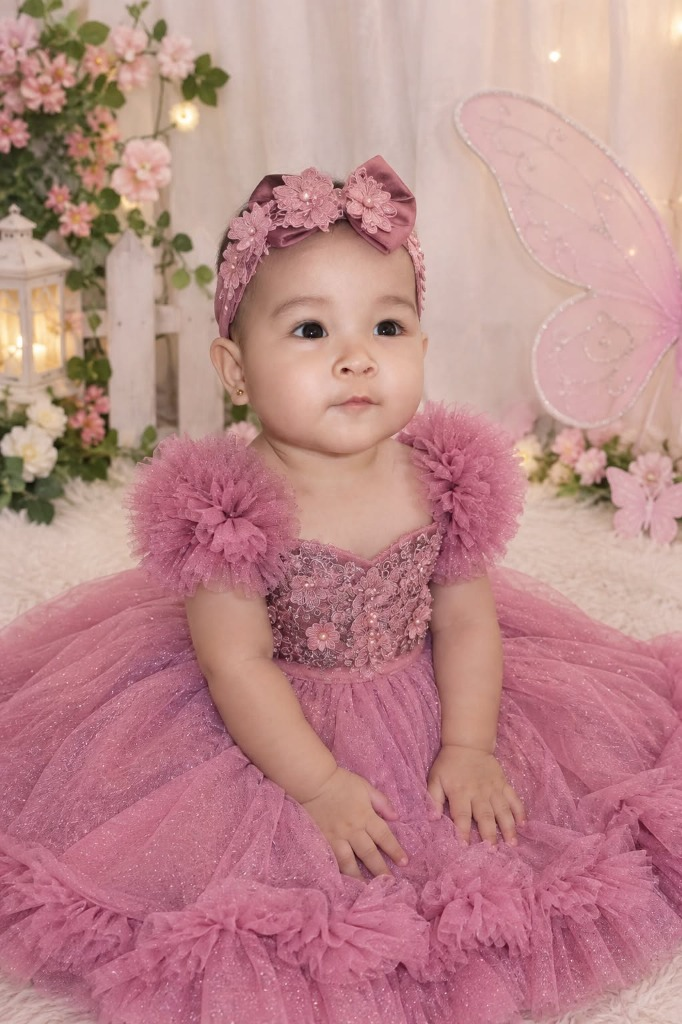
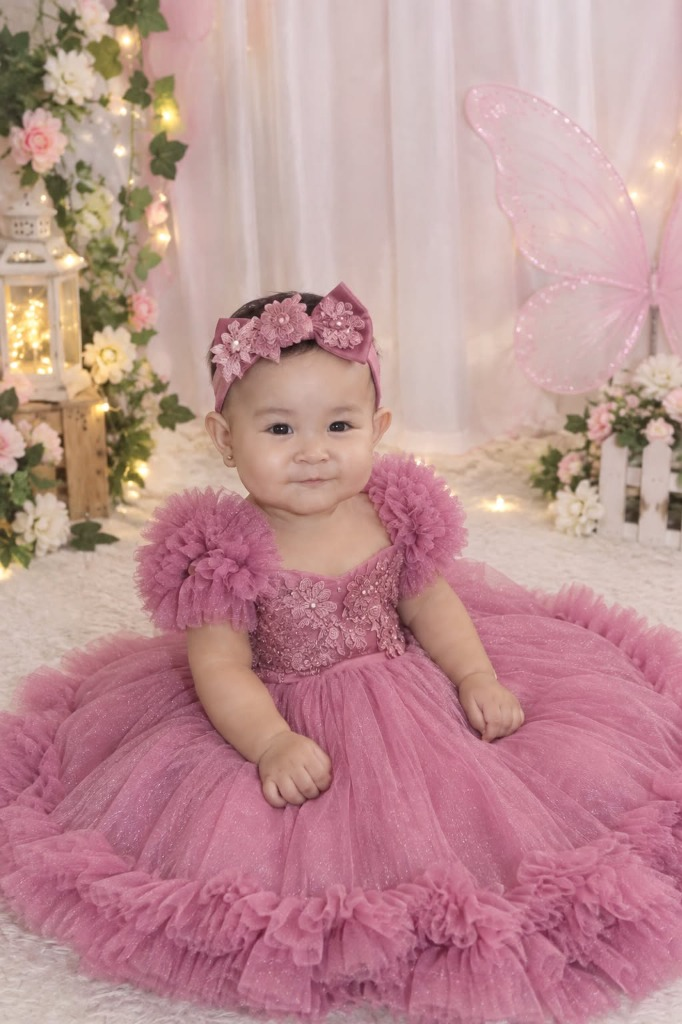
m

diff --git a/index.html b/index.html
@@ -211,17 +211,13 @@
         <p class="section-subtitle">Precious moments of Baby Arshea turning One &amp; receiving her holy blessings</p>
       </div>
 
-      <div class="gallery-grid" style="grid-template-columns: repeat(auto-fit, minmax(200px, 1fr));">
+      <div class="gallery-grid" style="grid-template-columns: repeat(2, 1fr);">
         <div class="polaroid-card">
-          <img src="assets/images/hero.jpg" alt="Baby Arshea - Little Fairy Princess" class="polaroid-img">
-          <div class="polaroid-caption">Little Fairy Princess</div>
+          <img src="assets/images/gallery1.jpg" alt="Baby Arshea - Our Little Fairy" class="polaroid-img">
+          <div class="polaroid-caption">Our Little Fairy</div>
         </div>
         <div class="polaroid-card">
-          <img src="assets/images/gallery1.jpg" alt="Baby Arshea - Turning One" class="polaroid-img">
-          <div class="polaroid-caption">Turning One</div>
-        </div>
-        <div class="polaroid-card">
-          <img src="assets/images/gallery2.jpg" alt="Baby Arshea - Pure Joy & Blessings" class="polaroid-img">
+          <img src="assets/images/gallery2.jpg" alt="Baby Arshea - Pure Joy and Blessings" class="polaroid-img">
           <div class="polaroid-caption">Pure Joy &amp; Blessings</div>
         </div>
       </div>

diff --git a/css/style.css b/css/style.css
@@ -923,10 +923,11 @@ section {
    HD IMAGE QUALITY & ADAPTIVE RESPONSIVE RULES
    ========================================================================== */
 
-/* HD Image Rendering */
+/* HD Image Rendering - crisp, sharp, no blur */
 img {
-  image-rendering: -webkit-optimize-contrast;
-  image-rendering: crisp-edges;
+  max-width: 100%;
+  height: auto;
+  image-rendering: auto;
   -ms-interpolation-mode: bicubic;
 }
 
@@ -937,12 +938,7 @@ img {
   -webkit-backface-visibility: hidden;
   backface-visibility: hidden;
   transform: translateZ(0);
-}
-
-/* Make all images responsive by default */
-img {
-  max-width: 100%;
-  height: auto;
+  -webkit-font-smoothing: antialiased;
 }
 
 /* --------------------------------------------------------------------------
